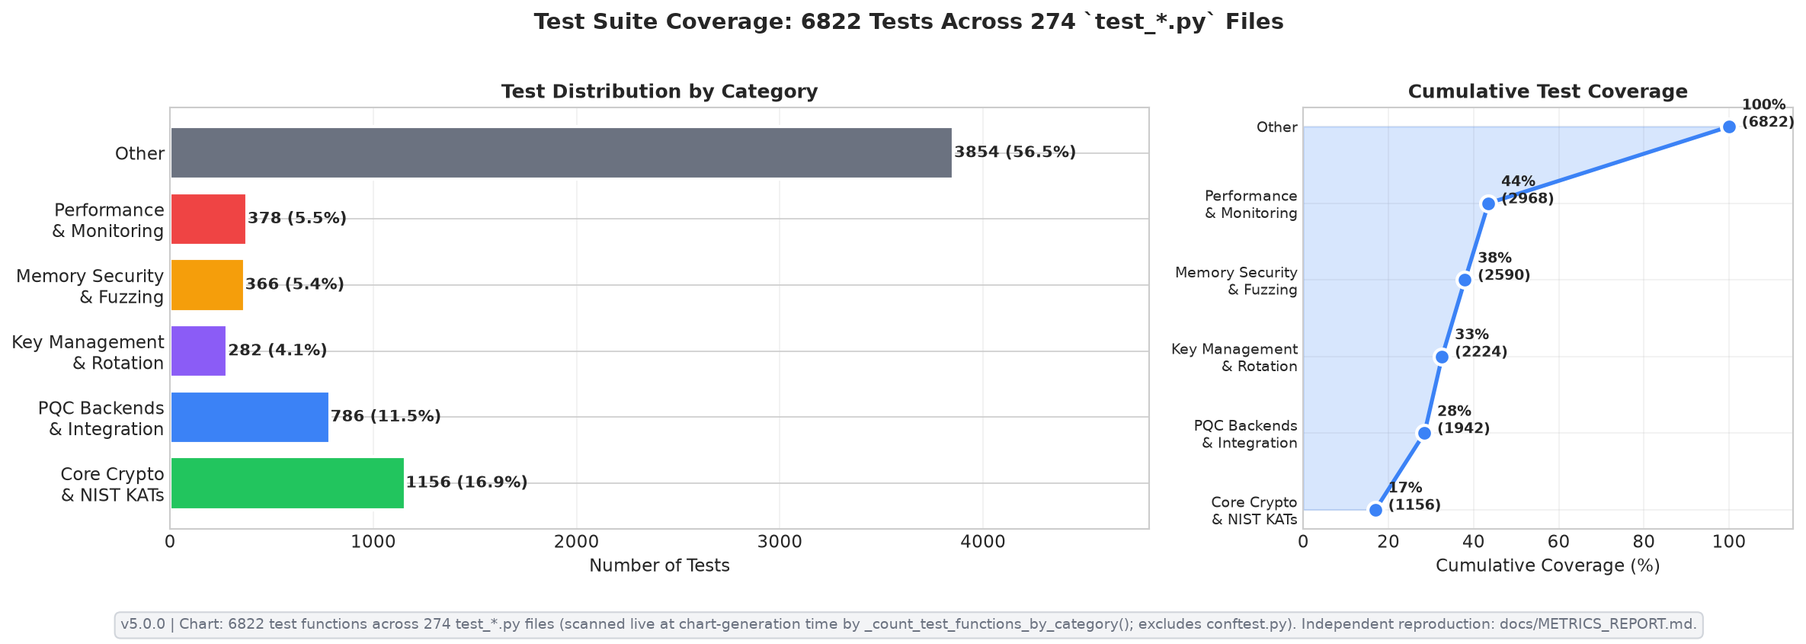
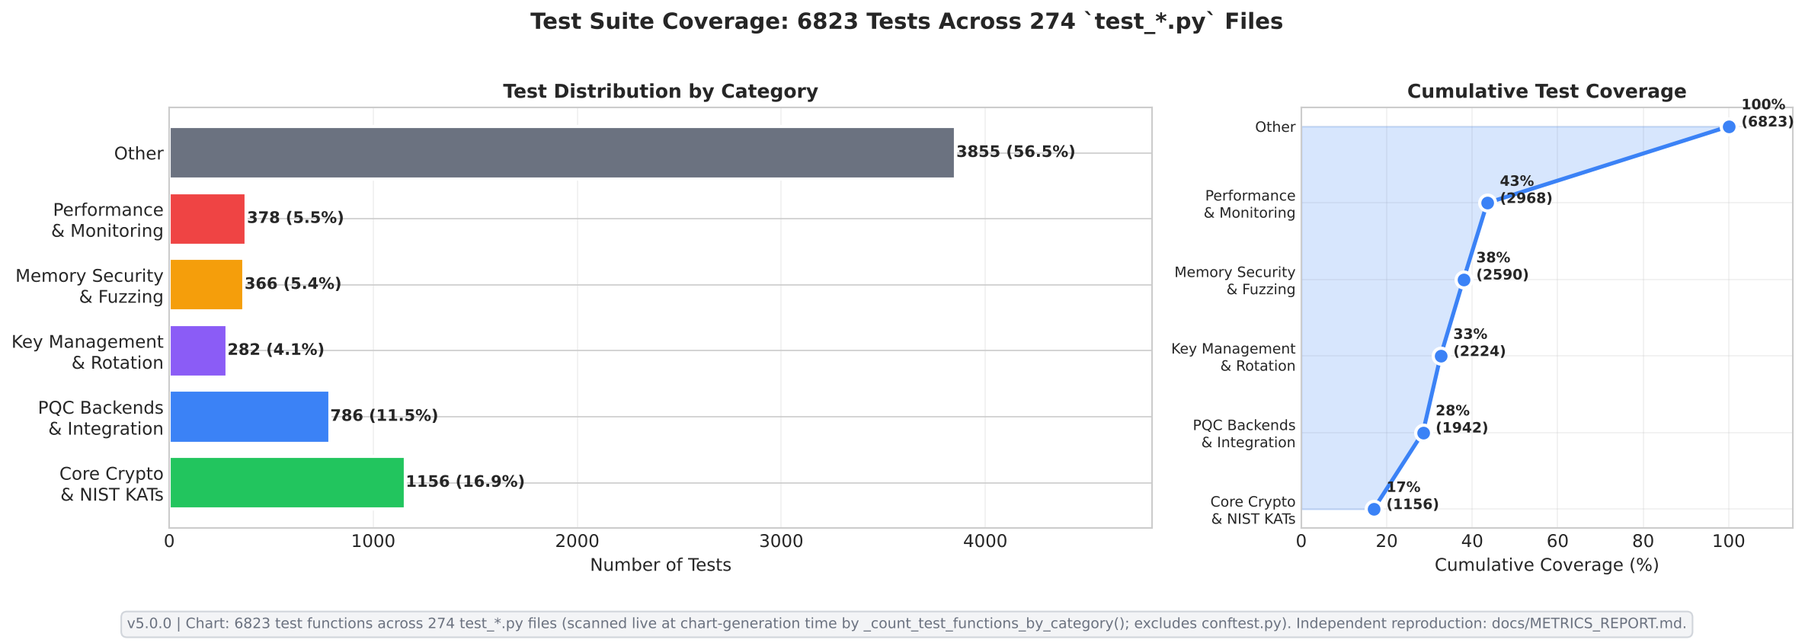
Resonance window capped onto the pinned table; Windows CI steps fail at the first failed command; release date rolled to 2026-10-07
detect_resonance now analyses at most _MAX_RESONANCE_SAMPLES = 2 x the
largest pinned spectrum size (16,384), derived from the pinned table
(2 * max(_MULTILINE_THRESHOLDS)) so the two cannot drift. Review
finding with a measured repro: a window_size=20000, max_history=20000
monitor is accepted by the constructor and produced m = 16,384 — off
the twelve-entry pinned table — so its first report ran the
measured-null simulation synchronously (65.5 million draws, 15.1 s in
the review container) plus a 32,768-point pure-Python FFT. Capped, the
same repro scans 8,192 bins, answers from the pinned bar in 0.05 s and
fills no cache; the runtime derivation remains for direct
_multiline_threshold callers (the table<->procedure coupling test
re-derives through it) and is unreachable from the public pipeline.
PIN test_an_oversized_window_stays_on_the_pinned_table,
mutation-earned: with the min() cap removed the mutant fails exactly
that test; restored, 39/39.

Four Windows CI steps ran multi-command run blocks under the default
pwsh, where a non-final failed command does not fail the step.
Measured on job 112595010110 (windows-latest/3.14): a transient PyPI
resolution failure aborted the editable install mid-step, the trailing
clang-format install let the step pass, and the job went red only at
the INVARIANT-1 vendor-isolation gate ("no compiled objects") —
blaming vendor isolation for an install failure. The
dependency-install and Windows-build steps of ci.yml and
[…]

diff --git a/ama_cryptography/monitoring.py b/ama_cryptography/monitoring.py
@@ -2353,7 +2353,16 @@ class ResonanceTimingMonitor:
 
         Note:
             Requires minimum 8 samples. Returns empty dict if insufficient
-            data. This is an on-demand operation (not hot path).
+            data. This is an on-demand operation (not hot path).  The
+            analysis takes at most :attr:`_MAX_RESONANCE_SAMPLES` of the
+            most recent samples regardless of ``window_size``: the cap is
+            twice the largest pinned spectrum size, so every null bar this
+            method can ask for is in :attr:`_MULTILINE_THRESHOLDS` and the
+            pure-Python FFT stays bounded (review finding, 2026-10-07: a
+            ``window_size=20000`` monitor produced m = 16,384, off the
+            pinned table, and the first report ran a 65.5-million-draw
+            synchronous null simulation — measured 15.1 s — plus a
+            32,768-point FFT).
         """
         # Snapshot under the monitor lock: record_timing() appends to this
         # same deque under self._lock on every instrumented operation, and
@@ -2374,7 +2383,8 @@ class ResonanceTimingMonitor:
             if operation not in self.timing_history:
                 return {}
             history_list = list(self.timing_history[operation])
-        timings = history_list[-self.window_size :]
+        effective_window = min(self.window_size, self._MAX_RESONANCE_SAMPLES)
+        timings = history_list[-effective_window:]
 
         if len(timings) < 8:
             return {}
@@ -2487,8 +2497,10 @@ class ResonanceTimingMonitor:
         return sum(sorted(scanned, reverse=True)[:j]) / mean_power
 
     #: Pinned null bars for the split-line statistic at every spectrum size
-    #: the detection pipeline produces (window lengths 8..10,000 zero-pad to
-    #: powers of two, so the scanned half-spectrum is one of these twelve).
+    #: the detection pipeline produces (the analysed window zero-pads to a
+    #: power of two and detect_resonance caps it at
+    #: :attr:`_MAX_RESONANCE_SAMPLES`, so the scanned half-spectrum is one
+    #: of these twelve for ANY constructor ``window_size``).
     #: Each value is the measured (1 - RESONANCE_FALSE_ALARM_RATE) order
     #: statistic over _MULTILINE_NULL_TRIALS seeded draws — byte-identical
     #: to what _multiline_threshold derives, pinned because the derivation
@@ -2516,8 +2528,22 @@ class ResonanceTimingMonitor:
         4096: 22.312320102580543,
         8192: 23.897051177165363,
     }
-    #: Runtime cache for sizes outside the pinned table (an external caller
-    #: driving detect_resonance at a non-pipeline size); filled on first use.
+    #: Cap on the samples detect_resonance analyses, derived from the pinned
+    #: table so the two cannot drift: n samples zero-pad to the next power
+    #: of two and the scanned half-spectrum is half of that, so twice the
+    #: largest pinned size is the largest window whose null bar is pinned.
+    #: Without it, a monitor constructed with window_size above this cap
+    #: fell through to the measured-null simulation below on its first
+    #: report — 65.5 million draws at m = 16,384, measured 15.1 s of
+    #: synchronous latency inside get_security_report, plus a 32,768-point
+    #: pure-Python FFT (review finding, 2026-10-07).  Frequency resolution
+    #: beyond 16,384 samples buys this detector nothing it acts on.
+    _MAX_RESONANCE_SAMPLES: ClassVar[int] = 2 * max(_MULTILINE_THRESHOLDS)
+    #: Runtime cache for sizes outside the pinned table.  detect_resonance
+    #: can no longer reach it (its spectrum sizes are capped onto the table
+    #: above); it serves direct _multiline_threshold callers — the
+    #: calibration suite's table↔procedure coupling test re-derives a
+    #: pinned size through this path — and is filled on first use.
     _MULTILINE_THRESHOLD_CACHE: ClassVar[Dict[int, float]] = {}
     #: Null-measurement trials behind each cached threshold.  4,000 resolves
     #: the 1% tail (40 exceedances expected) and keeps the one-time per-size

diff --git a/tests/test_timing_detector_calibration.py b/tests/test_timing_detector_calibration.py
@@ -19,6 +19,7 @@ from __future__ import annotations
 
 import math
 import random
+from collections import deque
 from pathlib import Path
 from typing import ClassVar, cast
 
@@ -347,6 +348,37 @@ class TestSplitLineResonance:
             ResonanceTimingMonitor._MULTILINE_THRESHOLDS.update(pinned)
             ResonanceTimingMonitor._MULTILINE_THRESHOLD_CACHE.pop(m, None)
         assert fresh == table_value, (fresh, table_value)
+
+    def test_an_oversized_window_stays_on_the_pinned_table(self) -> None:
+        """PIN (review finding, 2026-10-07): the analysis window is capped
+        at ``_MAX_RESONANCE_SAMPLES``, so a monitor constructed with any
+        ``window_size`` stays on the pinned null-bar table.  Uncapped,
+        16,385 samples pad to 32,768 and scan m = 16,384 — off the table,
+        into the 65.5-million-draw synchronous null simulation (measured
+        15.1 s) plus a 32,768-point pure-Python FFT.  Mutation: with the
+        ``min(...)`` cap removed from ``detect_resonance``, the
+        ``scanned_bins`` assertion fails (after paying exactly the latency
+        this cap exists to refuse).
+
+        History is injected directly: the pin is on ``detect_resonance``'s
+        window, and 16,385 ``record_timing`` calls at window_size=20,000
+        cost ~23 s of windowed-MAD work that buys the pin nothing.
+        """
+        cap = ResonanceTimingMonitor._MAX_RESONANCE_SAMPLES
+        table = ResonanceTimingMonitor._MULTILINE_THRESHOLDS
+        assert cap == 2 * max(table)
+        monitor = ResonanceTimingMonitor(window_size=20000, max_history=20000)
+        rng = random.Random(777)  # noqa: S311 -- test stream, not key material (TDC-001)
+        samples = [0.1 + 0.004 * rng.gauss(0.0, 1.0) for _ in range(cap + 1)]
+        with monitor._lock:
+            history = monitor.timing_history.setdefault("op", deque(maxlen=monitor.max_history))
+            history.extend(samples)
+        cache_before = set(ResonanceTimingMonitor._MULTILINE_THRESHOLD_CACHE)
+        out = monitor.detect_resonance("op")
+        assert out["scanned_bins"] == cap // 2, out["scanned_bins"]
+        assert out["multiline_threshold"] == table[cap // 2]
+        # The pinned bar answered; no size was simulated for this report.
+        assert set(ResonanceTimingMonitor._MULTILINE_THRESHOLD_CACHE) == cache_before
 
     def test_a_multiline_only_verdict_reaches_report_and_posture(self) -> None:
         """PIN (review finding): get_security_report admitted an analysis

diff --git a/tests/test_changelog_relocation.py b/tests/test_changelog_relocation.py
@@ -55,9 +55,12 @@ BASE_COMMIT = "974cb019a2cf098495aaa6bbf4622b8cc8115484"
[1 lines of base64/hex data omitted]
 
 OLD_HEADING = "## [5.0.0] - 2026-09-10\n"
-#: Dated on 2026-10-06, the release-roll that filed every [Unreleased] entry
-#: under it (the heading read Unreleased from the relocation until then).
-NEW_HEADING = "## [5.0.0] - 2026-10-06\n"
+#: First dated on 2026-10-05 by the release-roll that filed every
+#: [Unreleased] entry under it (the heading read Unreleased from the
+#: relocation until then); rolled with each later pre-tag push, most
+#: recently to 2026-10-07 — the merge before the tag carries the date of
+#: its last validated push.
+NEW_HEADING = "## [5.0.0] - 2026-10-07\n"
 UNRELEASED_GROUP = "## Entries recorded under [Unreleased]\n\n"
 RELEASE_GROUP = "## Entries recorded under [5.0.0]\n\n"
 GLANCE_HEADING = "### Behavioural and breaking changes at a glance\n"
@@ -80,7 +83,7 @@ GLANCE_CORRECTION = ("105 native entry points", "107 native entry points")
 #: ten breaking changes against a glance table of eleven.  Each substitution
 #: must occur exactly once in the tail, so neither can widen into a licence.
 SUMMARY_ROW_CORRECTIONS = (
-    ("| 5.0.0 | 2026-09-10 |", "| 5.0.0 | 2026-10-06 |"),
+    ("| 5.0.0 | 2026-09-10 |", "| 5.0.0 | 2026-10-07 |"),
     ("BREAKING \u00d710 \u2014 see `[5.0.0]`", "BREAKING \u00d711 \u2014 see `[5.0.0]`"),
 )
 
@@ -92,7 +95,7 @@ SUMMARY_ROW_CORRECTIONS = (
 #: exactly once, so the row can follow the newest entry while
 #: :data:`BASE_CHANGELOG_SHA256` stays the hash of the pre-relocation file.
 #: A stamp that moves without moving this row fails the exactly-once check.
-PREAMBLE_CORRECTIONS = (("| Last Updated | 2026-09-23 |", "| Last Updated | 2026-10-06 |"),)
+PREAMBLE_CORRECTIONS = (("| Last Updated | 2026-09-23 |", "| Last Updated | 2026-10-07 |"),)
 
 
 def _journal_body(journal: str) -> str:

diff --git a/tests/test_key_formats.py b/tests/test_key_formats.py
@@ -315,10 +315,10 @@ def test_pq_seed_and_expanded_forms_describe_the_same_key() -> None:
         for algorithm, entries in by_algorithm.items():
             assert len(entries) == 3, f"{algorithm}: expected all three arms"
             keys = {arm: key.key for arm, key in entries}
+            key_lengths = {arm: len(v) for arm, v in keys.items()}
             assert len(set(keys.values())) == 1, (
                 f"{algorithm}: the seed, expandedKey and both arms of the same "
-                f"published key decoded to different secret keys: "
-                f"{ {arm: len(v) for arm, v in keys.items()} }"
+                f"published key decoded to different secret keys: {key_lengths}"
             )
 
 

diff --git a/CHANGELOG.md b/CHANGELOG.md
@@ -5,7 +5,7 @@
 | Property | Value |
 |----------|-------|
 | Applies to Release | 5.0.0 |
-| Last Updated | 2026-10-06 |
+| Last Updated | 2026-10-07 |
 | Classification | Public |
 | Maintainer | Steel Security Advisors LLC |
 
@@ -19,9 +19,9 @@ All notable changes to AMA Cryptography will be documented in this file. The for
 
 ## [Unreleased]
 
-## [5.0.0] - 2026-10-06
+## [5.0.0] - 2026-10-07
 
-> **Released 2026-10-06.** Until 2026-09-24 this heading carried the date
+> **Released 2026-10-07.** Until 2026-09-24 this heading carried the date
 > 2026-09-10, on which no release was cut; dating it is part of cutting the
 > release, and `tools/check_release_state.py` refuses the tag while the
 > shipped documents still call the version unreleased. What follows is the
@@ -33,6 +33,44 @@ All notable changes to AMA Cryptography will be documented in this file. The for
 > completion pass, with the measurements and rationale behind each change —
 > is kept verbatim in
 > [`docs/changelog/5.0.0-development-journal.md`](docs/changelog/5.0.0-development-journal.md).
+
+### Review round on the 10-06 head: the resonance analysis window capped onto the pinned table, Windows CI steps fail at the first failed command, the release date rolled — 2026-10-07
+
+- **`detect_resonance` is capped at `_MAX_RESONANCE_SAMPLES` (= 2 × the
+  largest pinned spectrum size, 16,384), so every null bar it can ask for
+  is in the pinned table for ANY constructor `window_size`.** Medium, a
+  review finding on the split-line channel below: a
+  `ResonanceTimingMonitor(window_size=20000, max_history=20000)` is
+  accepted and produced m = 16,384 — off the twelve-entry pinned table —
+  so the first report ran the measured-null simulation synchronously
+  (65.5 million draws, 15.1 s in the review container) plus a 32,768-point
+  pure-Python FFT. The cap is derived from the table (`2 * max(...)`), so
+  the two cannot drift; the runtime simulation path remains for direct
+  `_multiline_threshold` callers (the table↔procedure coupling test
+  re-derives through it) and is now unreachable from the public pipeline.
+  PIN `test_an_oversized_window_stays_on_the_pinned_table`
+  (mutation-earned: the cap removed fails exactly that test).
+- **Four Windows CI steps ran multi-command `run:` blocks under the
+  default `pwsh`, where a non-final failed command does not fail the
+  step.** Medium, measured on job 112595010110 (windows-latest/3.14): a
+  transient PyPI resolution failure aborted `pip install -e ".[dev,...]"`
+  mid-step, the trailing `clang-format` install succeeded, the step
+  passed — and the job went red only when the INVARIANT-1
+  vendor-isolation gate found no compiled objects, attributing an install
+  failure to vendor isolation. The dependency-install and Windows-build
+  steps of `ci.yml` and `ci-build-test.yml` now pin `shell: bash`
+  (`-e -o pipefail`, the semantics every Linux/macOS step already has).
+  The ruff resolution failure itself was infrastructure by the §8
+  standard: the same constraint resolved on every other lane of the same
+  run, and on re-run.
+- **The release date rolled 2026-10-06 → 2026-10-07 across the five
+  release-state documents and the relocation constants**, by the
+  last-merge-before-the-tag rule (the 10-06 head was still unmerged when
+  10-07 arrived). Two stale clauses in the pre-emptive-review-round entry
+  below are corrected in place per §6.6, marked with this date: the
+  import gate's intermediate unaliased-only form (shipped: keyed on the
+  `(module, asname)` binding) and `oss-fuzz/build.sh`'s intermediate
+  `read -ra` split (shipped: `read -rd ''`).
 
 ### CodeQL's repeated-import Notes closed tree-wide, and the class gated — 2026-10-05/06
 
@@ -233,7 +271,7 @@ All notable changes to AMA Cryptography will be documented in this file. The for
   correction matters, so the scorer keeps its fixed gain rather than
   carrying a decorative dependency.
 
-- **Pre-emptive review round, before the bots (same date).** Three measured additions. First, the new gate's own adversarial review found it covered one of CodeQL's three shapes: two plain top-level imports (the rule's canonical example) and a same-scope duplicate both evaded it, and an ALIASED top-level import wrongly counted as the earlier binding — a latent false positive whose "fix" would delete a load-bearing local import (measured: NameError). `duplicate_plain_imports` now flags all three shapes and counts only unaliased imports on both sides, with guarded (`try`/`if`) module-level imports never counted as the earlier binding; six unit pins plus the tree assertion, and three mutants (a planted top-level pair, a planted same-scope pair, the aliased guard dropped) each fail exactly their tests — the third also fails the tree assertion, which is the measurement that the tree really contains the load-bearing aliased pattern the guard protects. Second, `oss-fuzz/build.sh` and `tools/run_dudect.sh` — the two tracked scripts no shellcheck lane reads — carried six findings; the four `$CC $CFLAGS` word-splits are OSS-Fuzz's own contract and are now explicit `read -ra` argv arrays (split-equivalence probed; the exact rewritten compile and link lines executed against a real fuzz target and the probe binary runs; the script's full run is validated by the ClusterFuzzLite lane, since this container lacks OSS-Fuzz's `/src` layout and `fuzzer-no-link` runtime), and the two command-substitution quotings are behavior-identical. Both scripts are shellcheck-clean at style level. Third, three example docstrings instructed `pip install cryptography` — the third-party PyCA package — though nothing in the examples imports it (measured: `basic_usage.py` runs to completion with that import blocked); a library whose first invariant is zero external crypto dependencies does not tell its consumers to install one. The hints now name only what each example uses. Also executed this round, all clean: bandit and semgrep with their severity gates, the secret scan (1,623 files), full-scope `mypy --strict` (416 modules) with the scope gate, ctest 155/155, and a five-class note-level detector sweep (unused/redefined, constant-condition, import-shadowing, bare-except, mutable defaults) over the package and tools: zero findings.
+- **Pre-emptive review round, before the bots (same date).** Three measured additions. First, the new gate's own adversarial review found it covered one of CodeQL's three shapes: two plain top-level imports (the rule's canonical example) and a same-scope duplicate both evaded it, and an ALIASED top-level import wrongly counted as the earlier binding — a latent false positive whose "fix" would delete a load-bearing local import (measured: NameError). `duplicate_plain_imports` now flags all three shapes, with guarded (`try`/`if`) module-level imports never counted as the earlier binding; six unit pins plus the tree assertion, and three mutants (a planted top-level pair, a planted same-scope pair, the aliased guard dropped) each fail exactly their tests — the third also fails the tree assertion, which is the measurement that the tree really contains the load-bearing aliased pattern the guard protects. (This round's form counted only unaliased imports on both sides; the later review rounds replaced that with the shipped keying on the `(module, asname)` binding, under which a verbatim repeated alias is also a duplicate — corrected here per §6.6, 2026-10-07.) Second, `oss-fuzz/build.sh` and `tools/run_dudect.sh` — the two tracked scripts no shellcheck lane reads — carried six findings; the four `$CC $CFLAGS` word-splits are OSS-Fuzz's own contract and are now explicit argv arrays (split-equivalence probed; the exact rewritten compile and link lines executed against a real fuzz target and the probe binary runs; the script's full run is validated by the ClusterFuzzLite lane, since this container lacks OSS-Fuzz's `/src` layout and `fuzzer-no-link` runtime), and the two command-substitution quotings are behavior-identical. (This round split with `read -ra`, which stops at the first newline and was later measured dropping every flag after it; the shipped form is `read -rd ''` — see the fine-tooth round above; corrected here per §6.6, 2026-10-07.) Both scripts are shellcheck-clean at style level. Third, three example docstrings instructed `pip install cryptography` — the third-party PyCA package — though nothing in the examples imports it (measured: `basic_usage.py` runs to completion with that import blocked); a library whose first invariant is zero external crypto dependencies does not tell its consumers to install one. The hints now name only what each example uses. Also executed this round, all clean: bandit and semgrep with their severity gates, the secret scan (1,623 files), full-scope `mypy --strict` (416 modules) with the scope gate, ctest 155/155, and a five-class note-level detector sweep (unused/redefined, constant-condition, import-shadowing, bare-except, mutable defaults) over the package and tools: zero findings.
 
 - **A module imported twice, 26 sites (`ama_cryptography/monitoring.py`, `crypto_api.py`, `legacy_compat.py`, 11 test modules, the Wycheproof runner).** Low; CodeQL filed `py/repeated-import` as Notes #750/#751 against `monitoring.py`'s two function-local `import importlib` re-imports, and a tree-wide AST sweep by the same rule found 24 more of the class — each a plain, unaliased `import X` whose module the file already imports at top level, each a pure redundancy, each deleted. Seven aliased locals (`import os as _os`) bind a different name than the plain top-level imports beside them and were examined and left (the final gate keys on bindings, so a VERBATIM repeated alias is in scope — see the review rounds below); local `from X import name` is frequently deliberate late binding and is out of scope. Because Note-severity CodeQL does not block CI, the class is now gated: `tests/test_import_hygiene.py` scans every tracked `.py` and refuses the class — in its final form keyed by the `(module, asname)` binding, with two documented deliberate supersets (verbatim dotted repeats and same-list repeats inside one function or block, which the upstream query's module-scope requirement leaves out) — pinned by a planted duplicate (replanting `monitoring.py`'s own removed import fails it) and a negative control for the aliased and `from` forms. The release date moved to 2026-10-05 across the five release-state documents and the relocation suite's constants when this entry was filed, and rolled once more to 2026-10-06 when the same pull request grew the 10-06 review round — the merge before the tag carries the date of its last validated push, per this entry's own rule.
 
@@ -8926,7 +8964,7 @@ After upgrading to v2.0:
 
 | Version | Date | Description |
 |---------|------|-------------|
-| 5.0.0 | 2026-10-06 | Fail-closed FIPS 140-3 POST on import (INVARIANT-39/-40); pairwise consistency test on every asymmetric keygen (INVARIANT-41); declared-ctypes-ABI cross-check (INVARIANT-42); in-house Ed25519 backend replacing ed25519-donna, with donna's verdicts frozen as a replayable oracle; ML-DSA-65 on the FIPS 204 external interface and domain-separated hybrid signatures (format v2); the shared library exports only its `ama_*` ABI; repository-wide audit remediation. BREAKING ×11 — see `[5.0.0]` |
+| 5.0.0 | 2026-10-07 | Fail-closed FIPS 140-3 POST on import (INVARIANT-39/-40); pairwise consistency test on every asymmetric keygen (INVARIANT-41); declared-ctypes-ABI cross-check (INVARIANT-42); in-house Ed25519 backend replacing ed25519-donna, with donna's verdicts frozen as a replayable oracle; ML-DSA-65 on the FIPS 204 external interface and domain-separated hybrid signatures (format v2); the shared library exports only its `ama_*` ABI; repository-wide audit remediation. BREAKING ×11 — see `[5.0.0]` |
 | 4.0.0 | 2026-08-01 | Trust-anchor enforcement end to end; constant-time scalar GHASH with an optimizer value barrier and a callgrind invariance gate; Ed25519 canonical-`y` (INVARIANT-38); KDF policy floor; per-epoch AEAD nonce budget (INVARIANT-22); package serialization and `SecureSession` no longer emit key material. BREAKING ×6 — see `[4.0.0]` |
 | 3.0.0 | 2026-04-27 | In-house AVX-512 4-way Keccak permutation kernel + ADR (opt-in, default OFF, first ZMM-class SIMD path); Argon2id RFC 9106 byte-identity (BREAKING — `legacy_compat` migration shim provided, deprecated from day one and slated for removal in 4.0.0); Argon2id `out_len` cap at `AMA_ARGON2ID_MAX_TAG_LEN` (1024 B); Tier-B PQC + Ed25519 verify-path SWE + VAES YMM AES-256-GCM + X25519 `fe51` + ChaCha20 AVX2 + Argon2 BlaMka G AVX2 paths cited end-to-end against fresh measurements; CPUID-gated AVX-512 KAT in CI; re-floored slow-runner regression baselines (30/30 pass); NIST ACVP self-attestation under continuous validation (1,215/1,215 pass with SHA-3 MCT); duplicate un-pinned const-time-crypto job removed from `fuzzing.yml` |
 | 2.0.0 | 2026-03-07 | Zero-dependency native C, AES-256-GCM, adaptive posture, hybrid KEM combiner, Ed25519 atomics, Phase 2 primitives, CI hardening (PR #116: ruff, Semgrep, HMAC-SHA512, mypy --strict, CVE-2026-26007), FIPS 203/204/205 |

diff --git a/ARCHITECTURE.md b/ARCHITECTURE.md
@@ -789,7 +789,7 @@ AEAD nonce state (INVARIANT-22) and session state are per-process or per-file an
 | NIST ACVP Vectors | Official vector validation | 1,215 vectors, 12 algorithm functions (815 AFT + 400 SHA-3 MCT); self-attested, not CAVP | `nist_vectors/`; `acvp_validation.yml` fails if any of the 1,215 regresses (INVARIANT-18) |
 | Wycheproof | Adversarial vectors | 15 vendored corpora | `wycheproof_vectors/run_wycheproof.py` |
 
-**Total:** 6,822 Python test functions across 274 test files, plus the
+**Total:** 6,823 Python test functions across 274 test files, plus the
 ctest-registered C tests and the two `x25519_equiv_*.c` helper translation units under `tests/c/`,
 which have no `main` of their own and are linked into `test_x25519_field_equiv`
 (the set of C tests depends on `AMA_USE_NATIVE_PQC`, `AMA_AES_CONSTTIME`, the ISA
@@ -940,7 +940,7 @@ Cryptographic implementations are validated against:
 | 3.4.0 | 2026-07-25 | Steel Security Advisors LLC | Vendored Wycheproof gate; Ed25519 canonical-`S` (INVARIANT-26) and X25519 u-coordinate canonicalization (INVARIANT-27); agent-instance binding (INVARIANT-30) with 3R detectors; Ascon-AEAD128 / Ascon-Hash256 (SP 800-232) |
 | 3.5.0 | 2026-07-30 | Steel Security Advisors LLC | NIST P-256/384/521 ECDSA and ECDH (FIPS 186-5, INVARIANT-34 low-`s` policy); ML-KEM-512/768 and ML-DSA-44/87 parameter sets; HSS/LMS verification (SP 800-208) |
 | 4.0.0 | 2026-08-01 | Steel Security Advisors LLC | Trust-anchor enforcement end to end (anchor compiled into the native library, required for `verify_crypto_package`'s `all_valid`, and no longer bypassable by deleting the signature artefact); constant-time scalar GHASH with an optimizer value barrier and a callgrind instruction-invariance gate; Ed25519 canonical-`y` (INVARIANT-38) on single verify, batch verify and point decode; KDF policy floor on both cost and algorithm; per-epoch AEAD nonce budget (INVARIANT-22); package serialization and `SecureSession` no longer emit key material; RFC 8439 length limit on ChaCha20-Poly1305. BREAKING ×6 — see CHANGELOG `[4.0.0]`. |
-| 5.0.0 | 2026-10-06 | Steel Security Advisors LLC | Fail-closed FIPS 140-3 POST: `import ama_cryptography` raises on self-test failure and the ERROR state inhibits output on every surface (INVARIANT-39/-40); pairwise consistency test on every asymmetric keygen (INVARIANT-41); declared-ctypes-ABI cross-check with AST-discovered scope and a loaded-library major-version handshake (INVARIANT-42); pre-load SHA3-256 verification of the native library (hash-then-map via `/proc/self/fd`) with fail-closed unreadable-candidate handling; the six Cython binding extensions digest-bound into the v3 integrity artefact (BOTH signing callers bind — the wheel pipeline and the repair flow alike, since `integrity --update --sign` sets `--bind-extensions` unconditionally; anchored/developer severity split); repository-wide audit fixes — global `-mavx2` contamination removed from portable translation units, KyberSlash divisions replaced with exact Granlund–Montgomery reciprocal multiplies, SVE2 Keccak theta and Kyber NTT corrected and CI-built, dead CI gates made enforceable; one-shot AEAD wrapper throughput recovery (all-`bytes` fast path); benchmark floors recalibrated as measured medians with derived tolerances; pre-load refusal of a binding extension whose digest does not match the signed artefact (previously verified only after it had executed); the `AMA_BUILD_PIPELINE` carve-out that let an environment variable buy a mapping of an unverified native library replaced with an in-process signing-only scope; ML-KEM `Compress_d` applies its own `mod 2^d` with an exhaustive 16,645-pair proof; SoftHSM2, the semgrep end-to-end assertion, `test_dispatch_cache_file` on SIMD-off builds and `test_pq_parser_stack` under Valgrind all made executable; the dudect verdict rule distinguishes a directional leak from an unusable measurement.; in-house Ed25519 backend (fe51 by default, fe64-MULX by override) replacing ed25519-donna, which is removed (#394); ML-DSA-65 on the FIPS 204 external interface with context-separated hybrid signatures (INVARIANT-50); package signatures over a whole-package transcript (INVARIANT-52); INVARIANT-43 through INVARIANT-53; `ama_frost_verify_share` returns the verdict its header documents; CSPRNG-failure exits in ML-KEM, ML-DSA, SLH-DSA and X25519 scrub the partial draw (INVARIANT-6); POST records per-stage wall-clock, and a stage that raises enters ERROR with a recorded reason. BREAKING ×11 — see CHANGELOG `[5.0.0]`. |
+| 5.0.0 | 2026-10-07 | Steel Security Advisors LLC | Fail-closed FIPS 140-3 POST: `import ama_cryptography` raises on self-test failure and the ERROR state inhibits output on every surface (INVARIANT-39/-40); pairwise consistency test on every asymmetric keygen (INVARIANT-41); declared-ctypes-ABI cross-check with AST-discovered scope and a loaded-library major-version handshake (INVARIANT-42); pre-load SHA3-256 verification of the native library (hash-then-map via `/proc/self/fd`) with fail-closed unreadable-candidate handling; the six Cython binding extensions digest-bound into the v3 integrity artefact (BOTH signing callers bind — the wheel pipeline and the repair flow alike, since `integrity --update --sign` sets `--bind-extensions` unconditionally; anchored/developer severity split); repository-wide audit fixes — global `-mavx2` contamination removed from portable translation units, KyberSlash divisions replaced with exact Granlund–Montgomery reciprocal multiplies, SVE2 Keccak theta and Kyber NTT corrected and CI-built, dead CI gates made enforceable; one-shot AEAD wrapper throughput recovery (all-`bytes` fast path); benchmark floors recalibrated as measured medians with derived tolerances; pre-load refusal of a binding extension whose digest does not match the signed artefact (previously verified only after it had executed); the `AMA_BUILD_PIPELINE` carve-out that let an environment variable buy a mapping of an unverified native library replaced with an in-process signing-only scope; ML-KEM `Compress_d` applies its own `mod 2^d` with an exhaustive 16,645-pair proof; SoftHSM2, the semgrep end-to-end assertion, `test_dispatch_cache_file` on SIMD-off builds and `test_pq_parser_stack` under Valgrind all made executable; the dudect verdict rule distinguishes a directional leak from an unusable measurement.; in-house Ed25519 backend (fe51 by default, fe64-MULX by override) replacing ed25519-donna, which is removed (#394); ML-DSA-65 on the FIPS 204 external interface with context-separated hybrid signatures (INVARIANT-50); package signatures over a whole-package transcript (INVARIANT-52); INVARIANT-43 through INVARIANT-53; `ama_frost_verify_share` returns the verdict its header documents; CSPRNG-failure exits in ML-KEM, ML-DSA, SLH-DSA and X25519 scrub the partial draw (INVARIANT-6); POST records per-stage wall-clock, and a stage that raises enters ERROR with a recorded reason. BREAKING ×11 — see CHANGELOG `[5.0.0]`. |
 
 ---
 

diff --git a/SECURITY.md b/SECURITY.md
@@ -23,7 +23,7 @@ The library has **not** been externally audited, and it is **not** CAVP- or CMVP
 
 | Version | Supported | Status |
 |---------|-----------|--------|
-| 5.0.x | Yes | Current line; 5.0.0 released 2026-10-06 |
+| 5.0.x | Yes | Current line; 5.0.0 released 2026-10-07 |
 | 4.0.x | No | Superseded by v5.0 (eleven breaking changes — see CHANGELOG `[5.0.0]`) |
 | 3.5.x | No | Superseded by v4.0 (six breaking changes — see CHANGELOG `[4.0.0]`) |
 | 3.4.x | No | Superseded by v3.5; no public API removals |
@@ -1206,7 +1206,7 @@ issue; report it as described above.
 | 3.4.0 | 2026-07-25 | Support matrix rolled (3.4.x active); vendored Wycheproof gate; Ed25519 canonical-`S` enforcement (INVARIANT-26) and X25519 u-coordinate canonicalization (INVARIANT-27); agent-instance binding (INVARIANT-30) with 3R detectors; Ascon-AEAD128/Hash256 (SP 800-232) |
 | 3.5.0 | 2026-07-30 | Support matrix rolled (3.5.x active, 3.4.x superseded — no public API removals); INVARIANT-22 nonce-counter rollback residual risk documented; NIST P-256/384/521 ECDSA (FIPS 186-5, INVARIANT-34 low-`s` policy), ML-KEM/ML-DSA parameter sets, HSS/LMS verification enter the supported surface |
 | 4.0.0 | 2026-08-01 | Support matrix rolled (4.0.x active, 3.5.x superseded — six breaking changes); trust-anchor enforcement end to end; constant-time scalar GHASH with an optimizer value barrier; Ed25519 canonical-`y` (INVARIANT-38); KDF policy floor on both cost and algorithm; per-epoch AEAD nonce budget (INVARIANT-22); package serialization and `SecureSession` no longer emit key material; RFC 8439 length limit on ChaCha20-Poly1305 |
-| 5.0.0 | 2026-10-06 | Support matrix rolled (5.0.x active, 4.0.x superseded — eleven breaking changes); fail-closed FIPS 140-3 POST import with output inhibition on every surface (INVARIANT-39/-40); pairwise consistency test on every asymmetric keygen (INVARIANT-41); declared-ctypes-ABI cross-check and loaded-library major-version handshake (INVARIANT-42); pre-load native-library digest verification with the fail-closed unreadable-candidate rule; the six binding extensions digest-bound into the v3 integrity artefact (every build signs and binds, including the repair flow; anchored/developer severity split); Ed25519 `x = 0` twin-encoding rejection, extended to the signature's R half on every verify path in both backends so batch and single verify cannot disagree; `CryptoPostureController` fail-closed on an algorithm it cannot rank, with per-family strength ladders so an escalation cannot answer a KEM with a signature scheme; pre-load refusal of a binding extension whose digest does not match the signed artefact (previously verified only after it had executed); the `AMA_BUILD_PIPELINE` carve-out that let an environment variable buy a mapping of an unverified native library replaced with an in-process signing-only scope; ML-KEM `Compress_d` applies its own `mod 2^d` with an exhaustive 16,645-pair proof; SoftHSM2, the semgrep end-to-end assertion, `test_dispatch_cache_file` on SIMD-off builds and `test_pq_parser_stack` under Valgrind all made executable; the dudect verdict rule distinguishes a directional leak from an unusable measurement; ed25519-donna replaced by an in-house fe51 / fe64-mulx backend (#394); scrub on every CSPRNG-failure exit (INVARIANT-6), FROST `verify_share` verdict aligned with its header, ML-DSA hint-encoding rules pinned, POST stage timing and failure recording |
+| 5.0.0 | 2026-10-07 | Support matrix rolled (5.0.x active, 4.0.x superseded — eleven breaking changes); fail-closed FIPS 140-3 POST import with output inhibition on every surface (INVARIANT-39/-40); pairwise consistency test on every asymmetric keygen (INVARIANT-41); declared-ctypes-ABI cross-check and loaded-library major-version handshake (INVARIANT-42); pre-load native-library digest verification with the fail-closed unreadable-candidate rule; the six binding extensions digest-bound into the v3 integrity artefact (every build signs and binds, including the repair flow; anchored/developer severity split); Ed25519 `x = 0` twin-encoding rejection, extended to the signature's R half on every verify path in both backends so batch and single verify cannot disagree; `CryptoPostureController` fail-closed on an algorithm it cannot rank, with per-family strength ladders so an escalation cannot answer a KEM with a signature scheme; pre-load refusal of a binding extension whose digest does not match the signed artefact (previously verified only after it had executed); the `AMA_BUILD_PIPELINE` carve-out that let an environment variable buy a mapping of an unverified native library replaced with an in-process signing-only scope; ML-KEM `Compress_d` applies its own `mod 2^d` with an exhaustive 16,645-pair proof; SoftHSM2, the semgrep end-to-end assertion, `test_dispatch_cache_file` on SIMD-off builds and `test_pq_parser_stack` under Valgrind all made executable; the dudect verdict rule distinguishes a directional leak from an unusable measurement; ed25519-donna replaced by an in-house fe51 / fe64-mulx backend (#394); scrub on every CSPRNG-failure exit (INVARIANT-6), FROST `verify_share` verdict aligned with its header, ML-DSA hint-encoding rules pinned, POST stage timing and failure recording |
 
 ---
 

diff --git a/README.md b/README.md
@@ -444,7 +444,7 @@ installs byte-identical source.
 
 | Channel | Status | Needs a C toolchain? |
 |---|---|---|
-| Source install from a git tag | Available (`v5.0.0`, released 2026-10-06) | Yes |
+| Source install from a git tag | Available (`v5.0.0`, released 2026-10-07) | Yes |
 | Prebuilt wheel from a GitHub Release | From the first release built by `release.yml` onward | No |
 | PyPI (`pip install ama-cryptography`) | **Not published yet** — see channel 3 before using | No |
 | Self-hosted PEP 503 index | Supported pattern, opt-in | No |
@@ -927,7 +927,7 @@ The test suite includes:
 
 ![Test Suite Coverage](assets/test_coverage.png)
 
-*6,822 test functions across 274 Python test files plus 95 C test suites (97 translation units) covering core crypto and NIST KATs (including the AVX-512 4-way Keccak KAT, CSPRNG-failure scrubbing (`tests/c/test_csprng_failure_residue.c`), ML-DSA hint encoding (`tests/c/test_ml_dsa_hint_encoding.c`), input guards (`tests/c/test_input_guards.c`), fe51-vs-fe64 X25519 byte-equivalence, MULX+ADX equivalence, VAES AES-GCM equivalence, FROST threshold signing, Ed25519 Shamir verify and base-point comb equivalence, and Dilithium / Kyber sampling-equivalence pinning), PQC backends, key management, adaptive posture, hybrid combiner, memory security, fuzz harnesses, and performance/monitoring. See [docs/METRICS_REPORT.md](docs/METRICS_REPORT.md) for the authoritative count and reproduction command (`grep -rE "^\s*def test_" tests/ --include='*.py' | wc -l`).*
+*6,823 test functions across 274 Python test files plus 95 C test suites (97 translation units) covering core crypto and NIST KATs (including the AVX-512 4-way Keccak KAT, CSPRNG-failure scrubbing (`tests/c/test_csprng_failure_residue.c`), ML-DSA hint encoding (`tests/c/test_ml_dsa_hint_encoding.c`), input guards (`tests/c/test_input_guards.c`), fe51-vs-fe64 X25519 byte-equivalence, MULX+ADX equivalence, VAES AES-GCM equivalence, FROST threshold signing, Ed25519 Shamir verify and base-point comb equivalence, and Dilithium / Kyber sampling-equivalence pinning), PQC backends, key management, adaptive posture, hybrid combiner, memory security, fuzz harnesses, and performance/monitoring. See [docs/METRICS_REPORT.md](docs/METRICS_REPORT.md) for the authoritative count and reproduction command (`grep -rE "^\s*def test_" tests/ --include='*.py' | wc -l`).*
 
 </details>
 
@@ -1486,7 +1486,7 @@ The human architect does not hold formal credentials in cryptography. The AI con
 
 - **Standards-based design:** Built on the standards in [CSRC_STANDARDS.md](CSRC_STANDARDS.md) — not custom cryptography
 - **Quantified claims:** Every published figure names its host, command and record ([docs/BENCHMARK_HISTORY.md](docs/BENCHMARK_HISTORY.md), `benchmarks/canonical-host.json`)
-- **Rigorous testing:** 6,822 test functions across 274 Python files plus 95 C test suites, anchored in [docs/METRICS_REPORT.md](docs/METRICS_REPORT.md); CI includes security scanning, NIST ACVP validation (1,215/1,215 — 815 AFT + 400 SHA-3 MCT), and benchmark-regression checks
+- **Rigorous testing:** 6,823 test functions across 274 Python files plus 95 C test suites, anchored in [docs/METRICS_REPORT.md](docs/METRICS_REPORT.md); CI includes security scanning, NIST ACVP validation (1,215/1,215 — 815 AFT + 400 SHA-3 MCT), and benchmark-regression checks
 - **Regression detection:** Benchmark floors measured on each CI runner class (x86_64 45% tolerance; aarch64 15–25%)
 - **Transparent limitations:** Security analysis explicitly distinguishes self-assessed vs. audited claims
 - **Defense-in-depth:** Security bounded by the weakest layer (~128-bit classical), not inflated aggregate claims

diff --git a/docs/METRICS_REPORT.md b/docs/METRICS_REPORT.md
@@ -91,20 +91,20 @@ Measured as non-empty-allowed `wc -l` over source files in each scope.
 
 | Scope | Files | Lines |
 |-------|------:|------:|
-| Library Python (`ama_cryptography/*.py`) | 30 | 43,058 |
+| Library Python (`ama_cryptography/*.py`) | 30 | 43,084 |
 | Native C (`src/c/**/*.c`, `include/**/*.h`) | 89 | 54,245 |
-| Library total (Python + C + headers) | 119 | **97,303** |
+| Library total (Python + C + headers) | 119 | **97,329** |
 | Top-level Python (monitors, benchmarks, demos) | 2 | 1,467 |
-| Tests (`tests/**/*.py`) | 279 | 132,573 |
+| Tests (`tests/**/*.py`) | 279 | 132,608 |
 | Cython (`*.pyx`, `*.pxd`) | 7 | 1,898 |
-| **Whole project** (source + docs + config) | 790 | **477,775** |
+| **Whole project** (source + docs + config) | 790 | **477,899** |
 
 **Library total (the figure that most closely tracks "library size"):
-97,303 lines** across 119 files under `ama_cryptography/`, `src/c/`,
+97,329 lines** across 119 files under `ama_cryptography/`, `src/c/`,
 and `include/`. This supersedes any "11,246 LoC" claim that may have
 appeared externally.
 
-**Whole-project total** (`477,775` lines across Python, C, headers,
+**Whole-project total** (`477,899` lines across Python, C, headers,
 Cython, Markdown, YAML/TOML/JSON config, CMake and Makefiles) is the
 broader figure some external claims may have been referencing. Reproduce
 it with:
@@ -163,12 +163,12 @@ the whole-project figure overstates hand-written code.
 
 | Scope                                | Lines    | % of whole | Paths                                                   |
 |--------------------------------------|---------:|-----------:|---------------------------------------------------------|
-| Library (Python + C + headers) | 97,303 | 20.4% | `ama_cryptography/` + `src/c/` + `include/` |
-| Tests | 132,573 | 27.7% | `tests/**/*.py` |
+| Library (Python + C + headers) | 97,329 | 20.4% | `ama_cryptography/` + `src/c/` + `include/` |
+| Tests | 132,608 | 27.7% | `tests/**/*.py` |
 | Top-level Python | 1,467 | 0.3% | `*.py` at repo root |
 | Cython | 1,898 | 0.4% | `*.pyx` + `*.pxd` |
-| Everything else (remainder) | 244,534 | 51.2% | `*.md`, `*.yml`, `*.toml`, `*.json`, CMake, Makefile, plus `.c`/`.h`/`.py` outside the scopes above (`tests/c/`, `fuzz/`, `tools/`, `benchmarks/`, `examples/`) |
-| **Whole-project total** | **477,775** | **100%** | sum of the scopes above |
+| Everything else (remainder) | 244,597 | 51.2% | `*.md`, `*.yml`, `*.toml`, `*.json`, CMake, Makefile, plus `.c`/`.h`/`.py` outside the scopes above (`tests/c/`, `fuzz/`, `tools/`, `benchmarks/`, `examples/`) |
+| **Whole-project total** | **477,899** | **100%** | sum of the scopes above |
 
 Test code (27.7%) is roughly 1.4x the size of the library (20.4%) — i.e. the test-to-library ratio is roughly **1.36**, and that
 counts only `tests/**/*.py`; the C test suite under `tests/c/` lands
@@ -238,7 +238,7 @@ git ls-files -z | tr '\0' '\n' \
 | Scope | Count |
 |-------|------:|
 | Python test files under `tests/` matching the static regex | 274 |
-| Syntactic `def test_` matches under `tests/**/*.py` | **6,822** |
+| Syntactic `def test_` matches under `tests/**/*.py` | **6,823** |
 | `test_*.c` files under `tests/c/` (ctest-registered) | 95 |
 | `bench_*.c` files under `tests/c/` (standalone, not in ctest) | 0 |
 | `fuzz_*.c` sources under `fuzz/` | 16 |

diff --git a/wiki/Security-Model.md b/wiki/Security-Model.md
@@ -155,7 +155,7 @@ which is authoritative.
 
 | Version | Security Support |
 |---------|-----------------|
-| 5.0.x | ✓ Current line; 5.0.0 released 2026-10-06 |
+| 5.0.x | ✓ Current line; 5.0.0 released 2026-10-07 |
 | 4.0.x | ✗ Superseded by v5.0 (eleven breaking changes — see CHANGELOG `[5.0.0]`) |
 | 3.5.x | ✗ Superseded by v4.0 (six breaking changes — see CHANGELOG `[4.0.0]`) |
 | 3.4.x | ✗ Superseded by v3.5 (no public API removals) |
